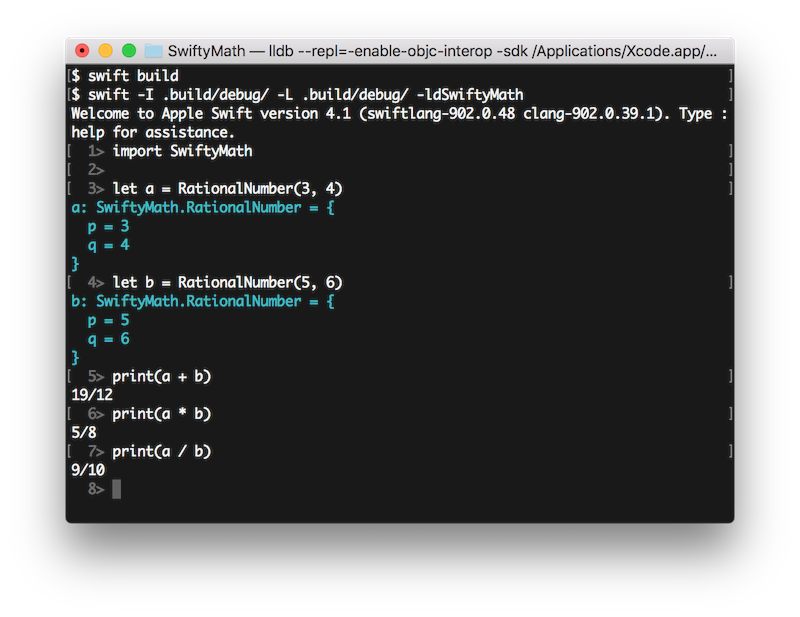
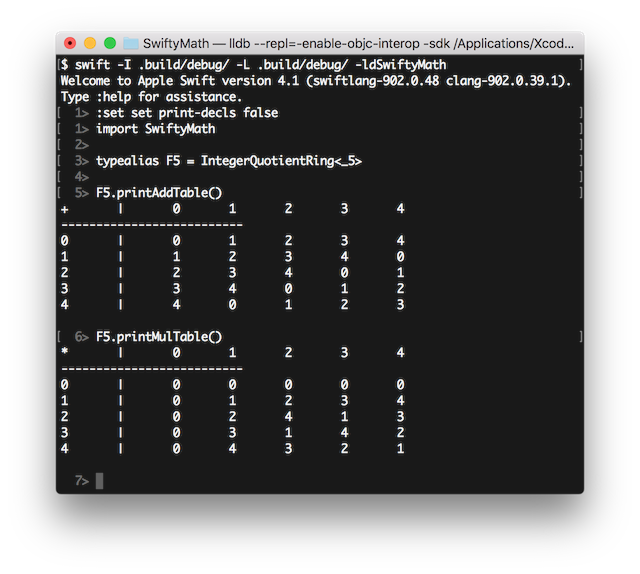
update README.

diff --git a/README.md b/README.md
@@ -8,11 +8,22 @@ The aim of this project is to understand Mathematics by realizing abstract conce
 
 ## Swift REPL
 
-With [Xcode](https://developer.apple.com/xcode/) installed, you can run SwiftyMath on Swift REPL by:
+With [Xcode](https://developer.apple.com/xcode/) installed, you can run SwiftyMath on the Swift-REPL by:
 
 ```
 $ swift build 
 $ swift -I .build/debug/ -L .build/debug/ -ldSwiftyMath
+```
+
+Try something like:
+
+```swift
+:set set print-decls false // suppress print-decl
+import SwiftyMath
+
+typealias F5 = IntegerQuotientRing<_5>
+F5.printAddTable()
+F5.printMulTable()
 ```
 
 ![ss2](doc/ss2.png)
